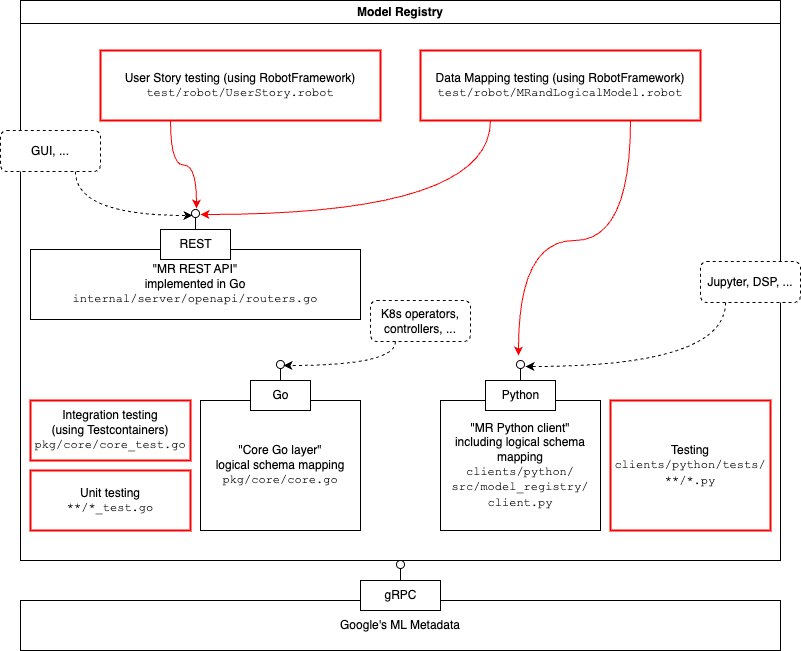
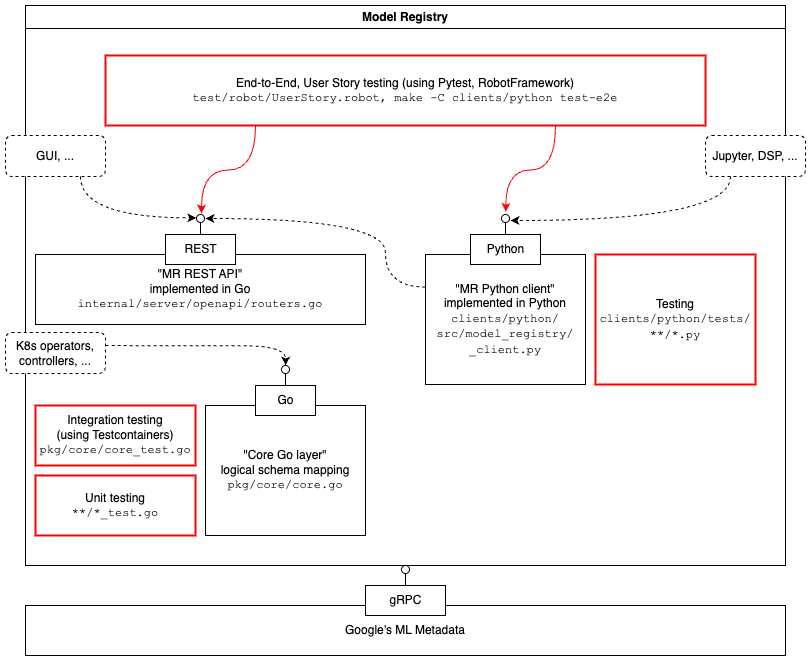
docs: update README (#400)
align diagram about testing architecture
following https://github.com/kubeflow/model-registry/pull/326

include FOSSA license scanning badge
following https://github.com/kubeflow/model-registry/issues/323

diff --git a/README.md b/README.md
@@ -7,6 +7,7 @@ Model registry provides a central repository for model developers to store and m
 
 ![build checks status](https://github.com/kubeflow/model-registry/actions/workflows/build.yml/badge.svg?branch=main)
 [![codecov](https://codecov.io/github/kubeflow/model-registry/graph/badge.svg?token=61URLQA3VS)](https://codecov.io/github/kubeflow/model-registry)
+[![FOSSA Status](https://app.fossa.com/api/projects/custom%2B162%2Fgithub.com%2Fkubeflow%2Fmodel-registry.svg?type=shield&issueType=license)](https://app.fossa.com/projects/custom%2B162%2Fgithub.com%2Fkubeflow%2Fmodel-registry?ref=badge_shield&issueType=license)
 
 ## Pre-requisites:
 - go >= 1.21
@@ -128,10 +129,7 @@ This allows to verify the expected "Core layer" of logical data mapping develope
 
 Python client is also tested with Unit Tests and Integration Tests written in Python.
 
-End-to-end testing is developed with Robot Framework; this higher-lever layer of testing is used to:
-- demonstrate *User Stories* from high level perspective
-- demonstrate coherent logical data mapping by performing the same high level capabilities, using REST API flow Vs Python client flow,
-directly checking the end results in the backend gRPC MLMD server.
+End-to-end testing is developed with Pytest and Robot Framework; this higher-lever layer of testing is used to demonstrate *User Stories* from high level perspective.
 
 ## FAQ
 
